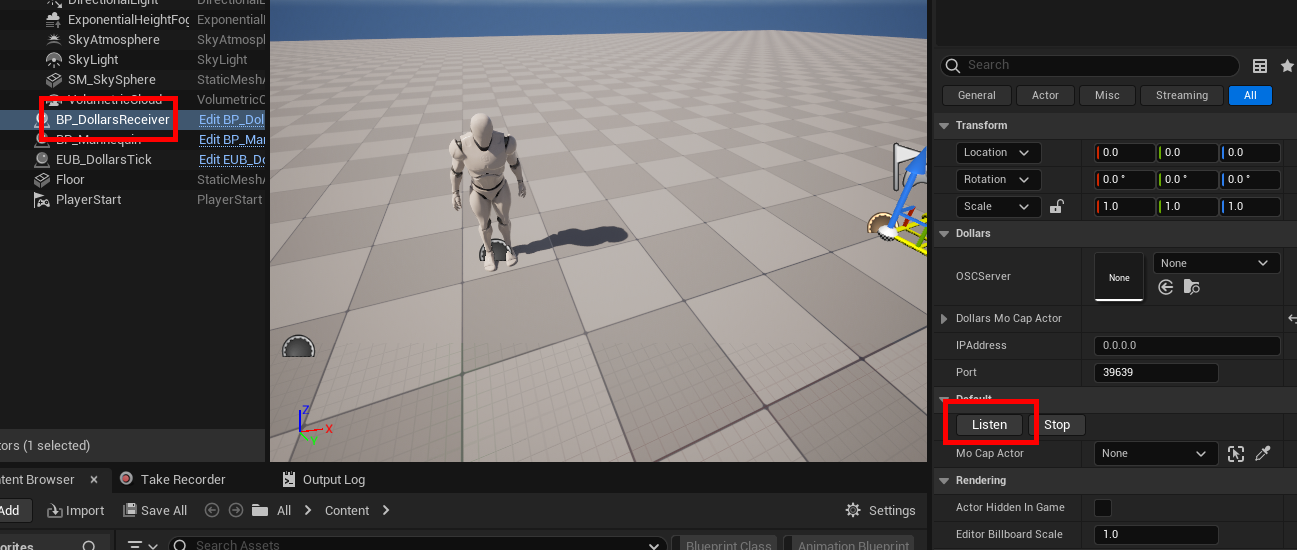
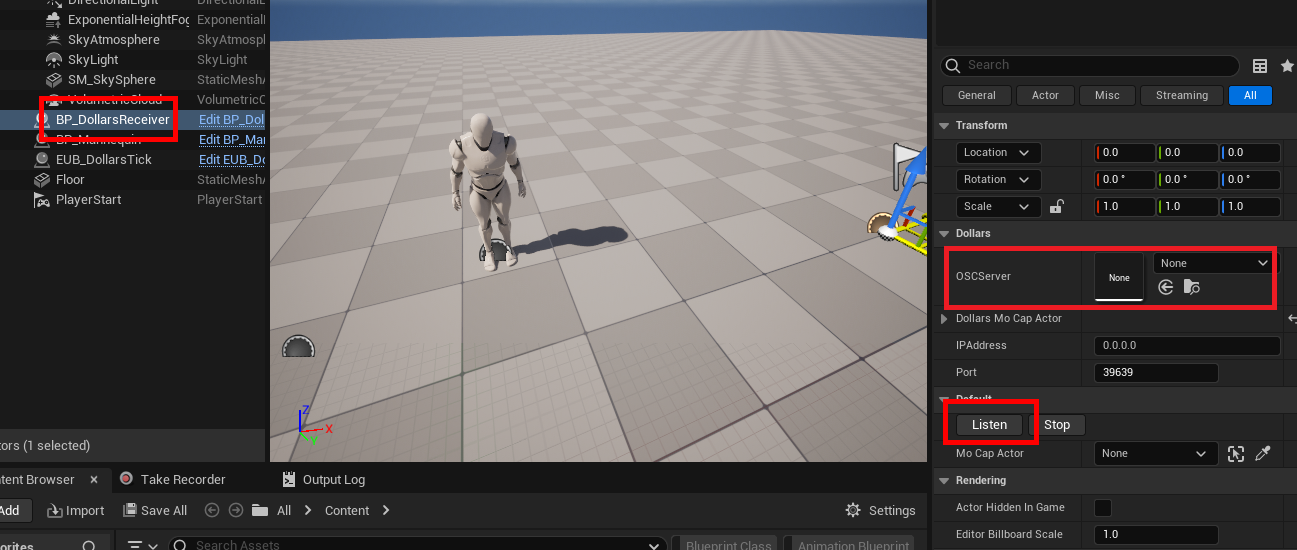
update

Changed region(s): [[0.7093, 0.4327, 0.9869, 0.5873]]

diff --git a/my-website/docs/Integration/UnrealEngine/ue_ineditor.md b/my-website/docs/Integration/UnrealEngine/ue_ineditor.md
@@ -39,9 +39,11 @@ https://drive.usercontent.google.com/download?id=19P-NaPRptPstWC6JLAnDQ_QNEco4Yx
 
 1. In the scene, select **Dollar Receiver** and click **Listen** in the details panel.
 
+If the **OSCServer** variable is not None before clicking **Listen**, you can click **Stop** to clear it.
+
 ![](../../img/2025_06_06_20_22_05.png)
 
-2. You will see that the **OSCServer** variable is assigned.
+2. After clicking **Listen**, you will see that the **OSCServer** variable is assigned.
 
 ![](../../img/2025_06_06_20_24_15.png)
 
